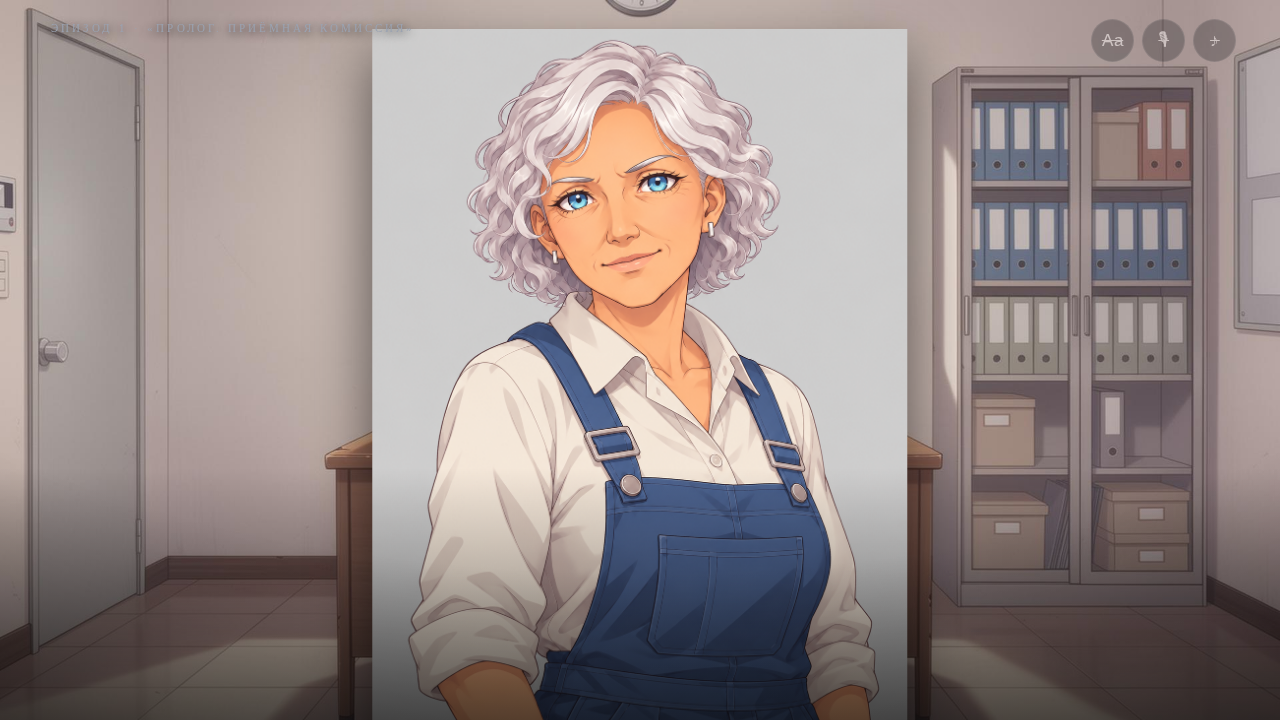
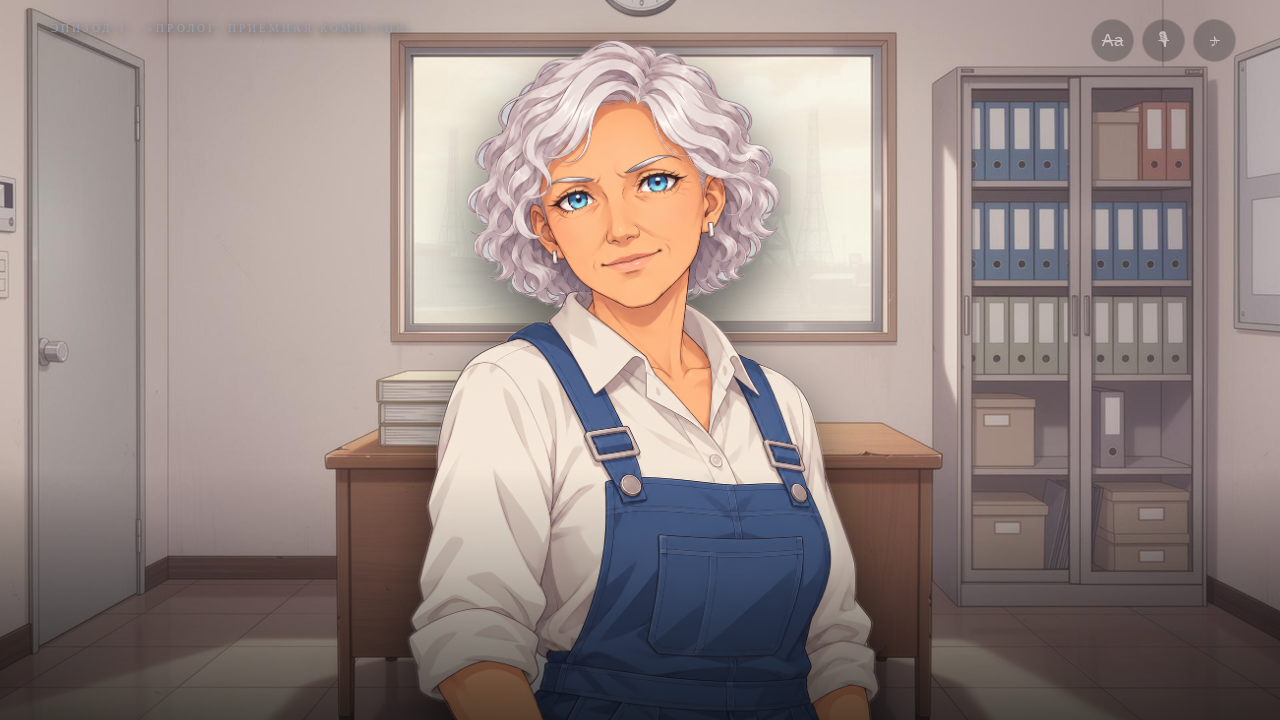
VN эп1: канон Сергея = 42 года (sergey_eng_old, выбран flux-2) + вырезка фона спрайтов (cutout в _vn2_build.py: flood-fill от бордюра; фон генератора не всегда белый). Доки README/VN_PLAN/STATUS приведены к канону 42. Листы review_71/72/73.

Changed region(s): [[0.25, 0.0306, 0.75, 1.0]]

diff --git a/_vn2_build.py b/_vn2_build.py
@@ -8,9 +8,10 @@
   4) vn2/content.js — узлы эп1: титул -> значок(video) -> пролог S1..S7 -> приёмная
 Текст — АВТОРСКИЙ ДОСЛОВНО из assets/story.txt (строки 5,7,9 = пролог; 13..67 = приёмная).
 """
-import os, json, re, shutil
+import os, json, re, shutil, sys
+from collections import deque
 import numpy as np
-from PIL import Image
+from PIL import Image, ImageFilter
 
 HERE = os.path.dirname(os.path.abspath(__file__))
 VN2 = os.path.join(HERE, 'vn2')
@@ -63,6 +64,44 @@ for n, ovls in PROLOG_OVL.items():
     im.save(os.path.join(IMG, 'prolog', n + '.png'))
     print('prolog', n, '->', os.path.relpath(os.path.join(IMG, 'prolog', n + '.png'), HERE))
 
+# ---- вырезка фона (плоский фон) для спрайтов ---------------------------
+def cutout(im, tol=34):
+    """Убрать СВЯЗАННЫЙ с краями фон ПО ЦВЕТОВОЙ ДИСТАНЦИИ от образца фона
+    (flood fill). Не зависит от того, белый фон или светло-серый; однотипная
+    одежда внутри фигуры не трогается — она не связана с краем."""
+    a = np.asarray(im.convert('RGB'), np.float32)
+    h, w, _ = a.shape
+    # образец фона: верхняя полоса + верхние части левого/правого борта
+    ring = np.concatenate([a[:8].reshape(-1, 3),
+                           a[:h * 3 // 5, :8].reshape(-1, 3),
+                           a[:h * 3 // 5, -8:].reshape(-1, 3)])
+    seed = np.median(ring, 0)
+    dist = np.sqrt(((a - seed) ** 2).sum(2))
+    cand = dist <= tol
+    vis = np.zeros((h, w), bool)
+    dq = deque()
+    for x in range(w):
+        for y in (0, h - 1):
+            if cand[y, x] and not vis[y, x]:
+                vis[y, x] = True; dq.append((y, x))
+    for y in range(h):
+        for x in (0, w - 1):
+            if cand[y, x] and not vis[y, x]:
+                vis[y, x] = True; dq.append((y, x))
+    while dq:
+        y, x = dq.popleft()
+        for dy, dx in ((1, 0), (-1, 0), (0, 1), (0, -1)):
+            ny, nx = y + dy, x + dx
+            if 0 <= ny < h and 0 <= nx < w and cand[ny, nx] and not vis[ny, nx]:
+                vis[ny, nx] = True; dq.append((ny, nx))
+    alpha = np.where(vis, 0, 255).astype(np.uint8)
+    A = Image.fromarray(alpha, 'L').filter(ImageFilter.GaussianBlur(1.1))
+    out = im.convert('RGBA')
+    out.putalpha(A)
+    print('   cutout seed=%s tol=%d transparent=%.0f%%' % (seed.astype(int).tolist(), tol, 100 * vis.mean()))
+    return out
+
+
 # ---- 2) фон приёмной + спрайты -----------------------------------------
 bg_src = os.path.join(GEN, 'ok_office_clean_0.jpg')   # пустой кабинет (без фигур)
 Image.open(bg_src).convert('RGB').resize((W, H), Image.LANCZOS).save(
@@ -70,9 +109,10 @@ Image.open(bg_src).convert('RGB').resize((W, H), Image.LANCZOS).save(
 print('bg reception OK')
 
 for dst, src in (('kate.png', os.path.join(GEN, 'kate_overalls_0.png')),
-                 ('sergey.png', os.path.join(GEN, 'sergey_eng_0.png'))):
-    shutil.copy(src, os.path.join(IMG, 'char', dst))
-    print('char', dst, Image.open(os.path.join(IMG, 'char', dst)).size)
+                 ('sergey.png', os.path.join(GEN, 'sergey_eng_old__flux-2_0.jpg'))):
+    out = cutout(Image.open(src))
+    out.save(os.path.join(IMG, 'char', dst))
+    print('char', dst, out.size, out.mode)
 
 # ---- 3) лого/иконки -----------------------------------------------------
 logo = Image.open(os.path.join(GEN, 'logo_b_0.jpg')).convert('RGB')

diff --git a/_sergey_choice.py b/_sergey_choice.py
@@ -1,0 +1,44 @@
+# -*- coding: utf-8 -*-
+"""Лист выбора Сергея: партия «постарше» (42) + текущий (33). -> review_72_sergey_choice.png"""
+import os
+from PIL import Image, ImageDraw, ImageFont
+H = os.path.dirname(os.path.abspath(__file__))
+G = os.path.join(H, 'assets', 'gen')
+REV = os.path.join(H, 'assets', 'review')
+F = '/usr/share/fonts/truetype/dejavu/DejaVuSans.ttf'
+
+
+def font(s):
+    return ImageFont.truetype(F, s) if os.path.exists(F) else ImageFont.load_default()
+
+
+cands = [
+    ('СЕЙЧАС в VN: sergey_eng_0 (33 года)', os.path.join(G, 'sergey_eng_0.png')),
+    ('flux-2  (3.38₽)  «42»', os.path.join(G, 'sergey_eng_old__flux-2_0.jpg')),
+    ('gpt-image-2  (4.06₽)', os.path.join(G, 'sergey_eng_old__gpt-image-2_0.png')),
+    ('nano-banana-2  (5.42₽)', os.path.join(G, 'sergey_eng_old__nano-banana-2_0.jpg')),
+    ('grok-imagine  (2.51₽)', os.path.join(G, 'sergey_eng_old__grok-imagine_0.jpg')),
+]
+cw, ch = 470, 640
+cols = 3
+rows = (len(cands) + cols - 1) // cols
+W = cols * cw + (cols + 1) * 12
+Hh = 44 + rows * (ch + 40) + 12
+sheet = Image.new('RGB', (W, Hh), (18, 20, 26))
+d = ImageDraw.Draw(sheet)
+d.text((16, 12), 'Сергей Лихнецкий — партия «постарше» (42): выбор движка',
+       fill=(240, 240, 245), font=font(24))
+for i, (lbl, p) in enumerate(cands):
+    r, c = divmod(i, cols)
+    x = 12 + c * (cw + 12)
+    y = 52 + r * (ch + 40)
+    d.rectangle([x, y, x + cw, y + ch], fill=(30, 33, 40))
+    if os.path.exists(p):
+        im = Image.open(p).convert('RGB')
+        im.thumbnail((cw - 10, ch - 10), Image.LANCZOS)
+        sheet.paste(im, (x + (cw - im.width) // 2, y + (ch - im.height) // 2))
+    d.text((x + 4, y + ch + 8), lbl, fill=(255, 220, 214), font=font(19))
+    d.rectangle([x, y, x + cw, y + ch], outline=(56, 60, 74))
+out = os.path.join(REV, 'review_72_sergey_choice.png')
+sheet.save(out)
+print('->', sheet.size)

diff --git a/_sergey_sheet.py b/_sergey_sheet.py
@@ -1,0 +1,34 @@
+# -*- coding: utf-8 -*-
+"""Лист-сравнение всех вариантов Сергея -> assets/review/review_71_sergey_variants.png"""
+import os
+from PIL import Image, ImageDraw
+H = os.path.dirname(os.path.abspath(__file__))
+G = os.path.join(H, 'assets', 'gen')
+S = os.path.join(H, 'assets', 'sprites')
+REV = os.path.join(H, 'assets', 'review')
+cands = [
+    ('sergey_eng_0\n(использован)', os.path.join(G, 'sergey_eng_0.png')),
+    ('sergey_0.png', os.path.join(G, 'sergey_0.png')),
+    ('sergey_0.jpg', os.path.join(G, 'sergey_0.jpg')),
+    ('sergey_grok_0', os.path.join(G, 'sergey_grok_0.jpg')),
+    ('sprites/sergey.png\n(старый)', os.path.join(S, 'sergey.png')),
+    ('eng_old__flux-2', os.path.join(G, 'sergey_eng_old__flux-2_0.jpg')),
+    ('eng_old__gpt-image-2', os.path.join(G, 'sergey_eng_old__gpt-image-2_0.png')),
+    ('eng_old__grok', os.path.join(G, 'sergey_eng_old__grok-imagine_0.jpg')),
+    ('eng_old__nano-banana-2', os.path.join(G, 'sergey_eng_old__nano-banana-2_0.jpg')),
+]
+cw, ch = 320, 420
+cols = 3
+rows = (len(cands) + cols - 1) // cols
+sheet = Image.new('RGB', (cols * cw, rows * ch), (14, 16, 22))
+d = ImageDraw.Draw(sheet)
+for i, (lbl, p) in enumerate(cands):
+    x, y = (i % cols) * cw, (i // cols) * ch
+    if os.path.exists(p):
+        im = Image.open(p).convert('RGB')
+        im.thumbnail((cw - 8, ch - 34), Image.LANCZOS)
+        sheet.paste(im, (x + 4, y + 30))
+    d.text((x + 6, y + 6), lbl, fill=(255, 235, 230))
+    d.rectangle([x, y, x + cw - 1, y + ch - 1], outline=(50, 54, 68))
+sheet.save(os.path.join(REV, 'review_71_sergey_variants.png'))
+print('->', sheet.size)

diff --git a/_gh_push27.py b/_gh_push27.py
@@ -1,0 +1,32 @@
+# -*- coding: utf-8 -*-
+"""Пуш: канон Сергея 42 (flux-2) + вырезка фона спрайтов (cutout) + доки."""
+import os, subprocess
+
+HERE = os.path.dirname(os.path.abspath(__file__))
+KEY = "/home/ivan/.nanobot/workspace/.ssh/github_ed25519"
+KH = "/home/ivan/.nanobot/workspace/.ssh/known_hosts"
+ENV = dict(os.environ, GIT_SSH_COMMAND=(
+    f"ssh -i {KEY} -o IdentitiesOnly=yes -o UserKnownHostsFile={KH} "
+    f"-o StrictHostKeyChecking=no"))
+
+for junk in ("_cutout_num.py", "_sergey_chk.py"):
+    p = os.path.join(HERE, junk)
+    if os.path.exists(p):
+        os.remove(p); print("removed", junk)
+
+def sh(cmd, timeout=900):
+    p = subprocess.run(cmd, shell=True, cwd=HERE, capture_output=True, text=True,
+                       timeout=timeout, env=ENV)
+    return p.returncode, (p.stdout or "").strip(), (p.stderr or "").strip()
+
+print("add rc:", sh("git add -A")[0])
+print(sh("git diff --cached --stat | tail -15")[1])
+msg = ("VN эп1: канон Сергея = 42 года (sergey_eng_old, выбран flux-2) + вырезка фона спрайтов "
+       "(cutout в _vn2_build.py: flood-fill от бордюра; фон генератора не всегда белый). "
+       "Доки README/VN_PLAN/STATUS приведены к канону 42. Листы review_71/72/73.")
+rc, out, err = sh(f'git commit -m "{msg}" || true')
+print("commit:", (out or err)[:300])
+rc, out, err = sh("git push origin rebuild")
+print("push rc=", rc, out[-160:], "ERR:", err[-160:])
+print("HEAD:", sh("git log --oneline -1")[1][:90])
+print("status:", sh("git status --short")[1][:240])

diff --git a/_cutout_chk.py b/_cutout_chk.py
@@ -1,0 +1,24 @@
+# -*- coding: utf-8 -*-
+"""Проверка вырезки спрайтов: накладка на цветной фон + границы."""
+import os
+from PIL import Image
+H = os.path.dirname(os.path.abspath(__file__))
+C = os.path.join(H, 'vn2', 'img', 'char')
+REV = os.path.join(H, 'assets', 'review')
+tiles = []
+for nm in ('kate.png', 'sergey.png'):
+    im = Image.open(os.path.join(C, nm)).convert('RGBA')
+    bg = Image.new('RGB', im.size, (60, 120, 200))
+    bg.paste(im, (0, 0), im)
+    tiles.append((nm, bg))
+cw, ch = 520, 690
+sheet = Image.new('RGB', (len(tiles) * (cw + 10) + 10, ch + 30), (20, 22, 28))
+from PIL import ImageDraw
+d = ImageDraw.Draw(sheet)
+for i, (nm, im) in enumerate(tiles):
+    im.thumbnail((cw, ch), Image.LANCZOS)
+    x = 10 + i * (cw + 10)
+    sheet.paste(im, (x, 24))
+    d.text((x, 6), nm + ' (вырезка на синем)', fill=(255, 255, 255))
+sheet.save(os.path.join(REV, 'review_73_cutout.png'))
+print('->', sheet.size)

diff --git a/_kate_bg.py b/_kate_bg.py
@@ -1,0 +1,17 @@
+# -*- coding: utf-8 -*-
+import os
+import numpy as np
+from PIL import Image
+H = os.path.dirname(os.path.abspath(__file__))
+G = os.path.join(H, 'assets', 'gen')
+a = np.asarray(Image.open(os.path.join(G, 'kate_overalls_0.png')).convert('RGB'), np.int16)
+h, w, _ = a.shape
+print('shape', a.shape)
+print('corners:', a[0, 0], a[0, -1], a[-1, 0], a[-1, -1])
+print('border rows mean:', a[0].mean(0), a[-1].mean(0))
+print('border cols mean:', a[:, 0].mean(0), a[:, -1].mean(0))
+print('top-left 40x40 min/mean:', a[:40, :40].min(), a[:40, :40].mean())
+# гистограмма яркости по границе
+mnb = a[0].min(1)
+print('top row min-channel: min%d max%d' % (mnb.min(), mnb.max()))
+print('unique-ish sample top-left:', a[0, 0], a[0, 30], a[30, 0], a[100, 0], a[0, 100])

diff --git a/STATUS.md b/STATUS.md
@@ -38,6 +38,11 @@
 
 ## Что сделано
 - **VN-эп1 (Пролог + Приёмная) — СОБРАН (2026-10-12).** Новая сборка `novella/zaryanka/vn2/` (мок `vn/` не тронут): движок `index.html`+`style.css`+`app.js`, контент `content.js` (генератор `_vn2_build.py`). Узлы: титул → **значок-видео** → пролог S1..S7 (кадр-грейд + **дословный авторский текст** + закадр Charon) → приёмная (фон-кабинет + спрайты Сергей/Екатерина + дословный диалог). Тумблеры **независимы**: `Aa` (подстрочник) · 🎙 (голос) · ♪ (музыка). Скриншоты headless-хромом → лист `assets/review/review_70_vn2_sheet.png`. Детали — `vn2/README.md`.
+- **Сергей: смена канона (2026-10-12).** В VN стоял НЕ тот Сергей — `assets/gen/sergey_eng_0.png` (33 г.).
+  Утверждён **`sergey_eng_old__flux-2_0.jpg`** (партия `sergey_eng_old`, **42 года**; 4 движка — Иван выбрал **flux-2**).
+  `vn2/img/char/sergey.png` пересобран из flux-2. Спрайты (Kate + Sergey) теперь **вырезаны по прозрачности**
+  (`cutout()` в `_vn2_build.py`: flood-fill от бордюра; фон генератора не всегда белый — у Кати серый ~[205,205,205])
+  → листы `review_71/72/73`. Доки `README.md`/`VN_PLAN.md` приведены к канону 42.
 - Текст рассказа → `assets/story.txt`.
 - **ЗНАЧОК и интро-К1 (черновик-аниматик, 2026-10-11).** Значок = золотой **пятиугольник**
   (вершина вверх) + вписанное круглое лого **B** с птицей, повёрнутой **вправо** →

diff --git a/README.md b/README.md
@@ -40,8 +40,10 @@
 - Сюжетно: Старик насильно командировал его в приёмную комиссию на 2 месяца; он рвётся назад
   к работе. Характер — балагур/обаяшка («устраиваете клоунаду», «устройте ему цирк»).
 - ⚠ Был сгенерирован как форменная рубашка + галстук + погоны + бейдж = «похож на полицейского»
-  — ЗАКАЗЧИКОМ ОТКЛОНЕНО. Версия под канон: `gen.py sergey_eng` → `assets/gen/sergey_eng_0.png`
-  (рабочая рубашка с закатанными рукавами + жилет, лёгкая щетина, усталые глаза, взлохмаченные волосы).
+  — ЗАКАЗЧИКОМ ОТКЛОНЕНО. **Канон (утверждён 2026-10-12): 42 года, `sergey_eng_old` →
+  `assets/gen/sergey_eng_old__flux-2_0.jpg`** (партия в 4 движках: `sergey_eng_old__{flux-2,gpt-image-2,nano-banana-2,grok-imagine}_0`,
+  Иван выбрал **flux-2**). Рабочая рубашка с закатанными рукавами + жилет, лёгкая щетина, усталые глаза,
+  взлохмаченные волосы. (Ранняя `sergey_eng_0.png` = 33 года — устарела, в VN больше не используется.)
 
 ## Спрайты (матрица эмоций)
 

diff --git a/VN_PLAN.md b/VN_PLAN.md
@@ -71,9 +71,10 @@
 Спрайт Екатерины — тот; **Сергея — не тот**; фон взят **с фигурой Екатерины** — мешает.
 
 Факты (проверено):
-- **Сергей:** VN берёт `assets/sprites/sergey.png` (718×1111) — старый. Канон заказчика —
-  `assets/gen/sergey_eng_0.png` (1086×1448; рабочая рубашка + жилет, «не полицейский»,
-  лёгкая щетина, усталые глаза). → **заменить на `sergey_eng_0`**.
+- **Сергей:** VN (`vn2/`) берёт `assets/gen/sergey_eng_old__flux-2_0.jpg` → `vn2/img/char/sergey.png`.
+  Устарели: `assets/sprites/sergey.png` (2016) и `assets/gen/sergey_eng_0.png` (33 года).
+  **Канон заказчика (2026-10-12): 42 года**, рабочий жилет, «не полицейский», лёгкая щетина, усталые глаза.
+  Партия `sergey_eng_old` = 4 движка (`__flux-2/gpt-image-2/nano-banana-2/grok-imagine`), выбран **flux-2**. ✅ заменено.
 - **Екатерина:** `assets/sprites/kate_overalls.png` — соответствует утверждённому
   `assets/gen/kate_overalls_0.png`. ок.
 - **Фоны VN:** commission/kate = `assets/gen/ok_reception_fix2_0.jpg` (1008×1344, портрет,
